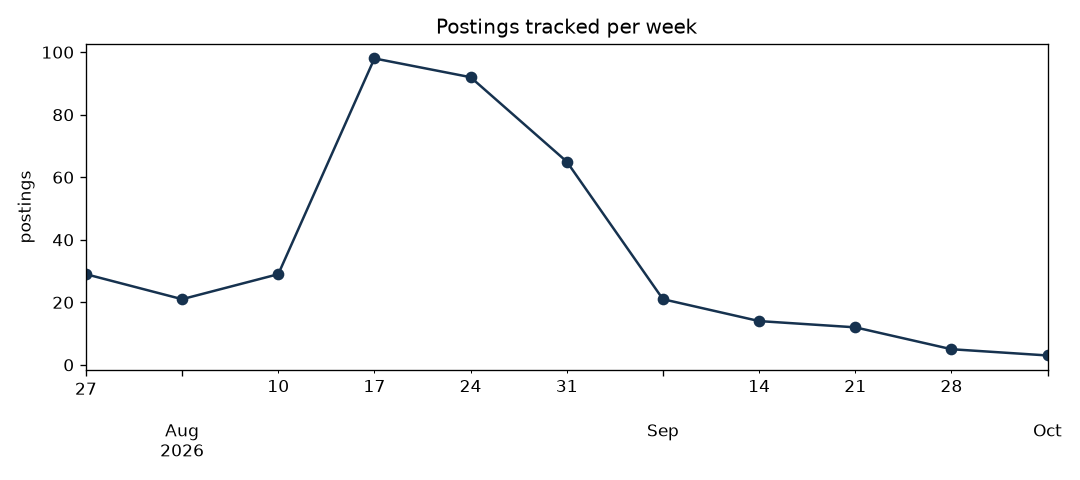
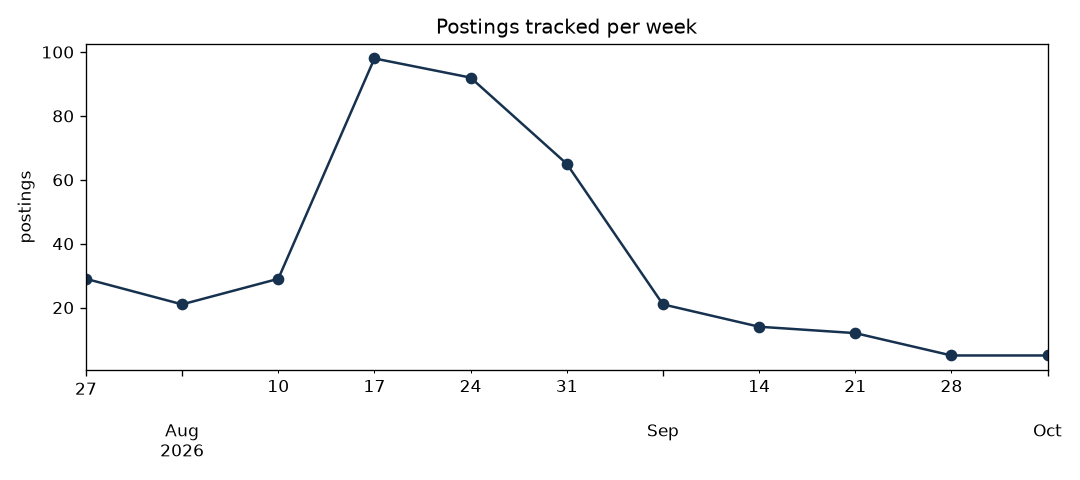
Daily data update

diff --git a/README.md b/README.md
@@ -13,13 +13,13 @@ reporting end to end.
 ## Dashboard
 
 <!-- dashboard:start -->
-*Last updated: 2026-10-09 18:39 UTC*
+*Last updated: 2026-10-10 17:38 UTC*
 
 | | |
 |---|---|
-| Postings tracked | 389 |
-| Companies | 323 |
-| New since last run | 0 |
+| Postings tracked | 391 |
+| Companies | 324 |
+| New since last run | 2 |
 | Data/ML-related share | 29% |
 
 ![Postings per week](reports/figures/postings_per_week.png)
